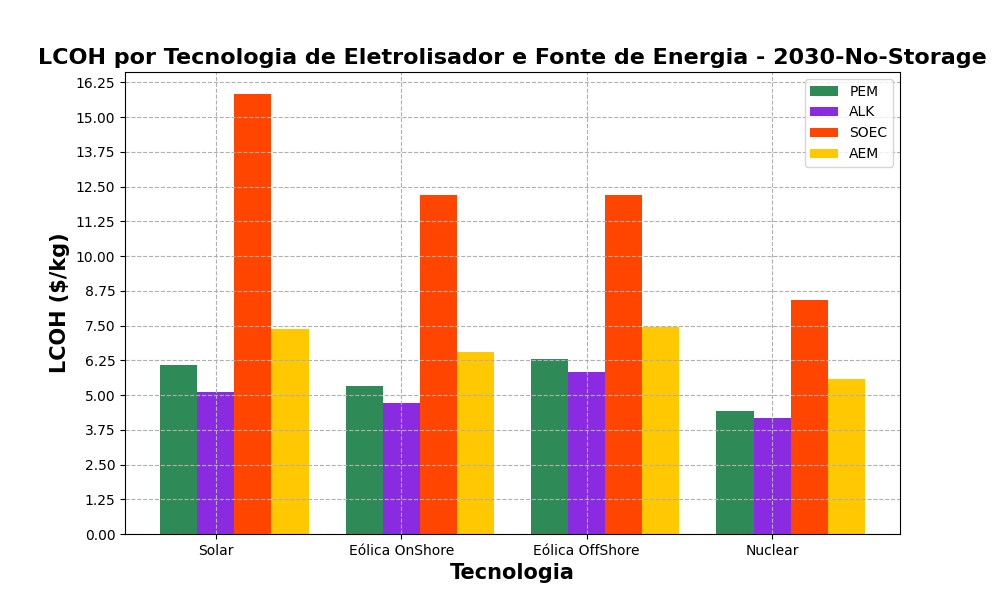
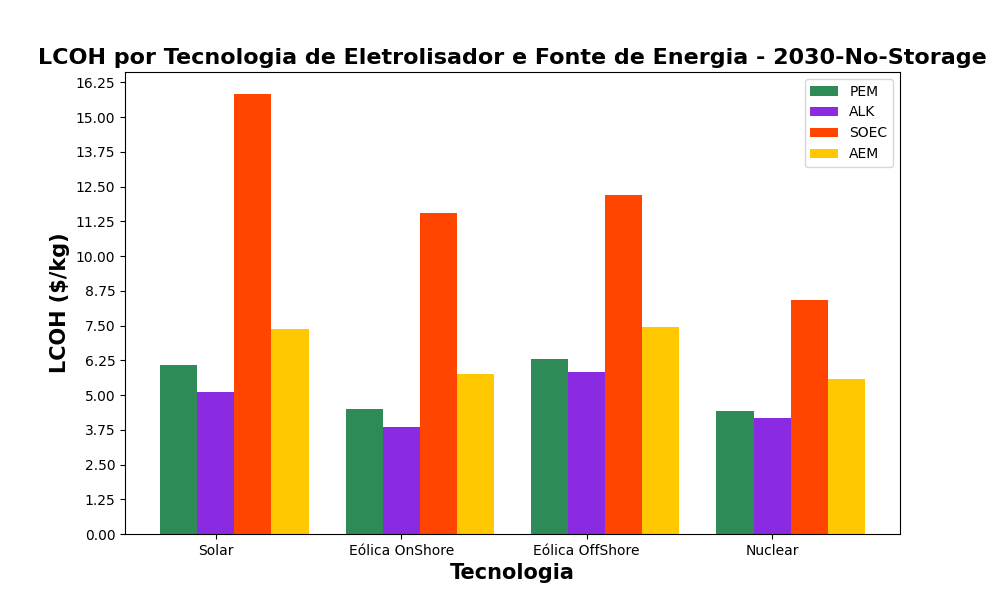
Variables representing conservative present scenario have been inserted. However, it still need to consider capacity factor for renewable sourcers. The selected capacity factors were only choosen to analyze the code behavior

Changed region(s): [[0.341, 0.63, 0.434, 0.72], [0.434, 0.57, 0.496, 0.63], [0.403, 0.3, 0.465, 0.36]]

diff --git a/Lcoh_main.py b/Lcoh_main.py
@@ -11,35 +11,35 @@ def parameters_present_conservative():
     year_storage = 'Present-Storage'
     year_no_storage = 'Present-No-Storage'
 
-    capex_battery = 73500
-    opex_battery = 500/73500
+    capex_battery = 6000*0.2
+    opex_battery = 80/6000
 
     ########### Energia ################
     ### custos energias
     # Solar
-    capex_sol = 320*0.2 # USD/kW
-    opex_sol = 0.02 # %
-    cf_sol = 0.25
+    capex_sol = 4250*0.2 # USD/kW - EPE 2021
+    opex_sol = 55/4250 # % - EPE 2021
+    cf_sol = 0.20 # Atualizar
 
     # Wind Onshore
-    capex_WindOnshore = 450*0.2 # USD/kW - EPE
-    opex_WindOnshore = 90/capex_WindOnshore # %/ano 0.2
-    cf_WindOnshore = 0.4
+    capex_WindOnshore = 4750*0.2 # USD/kW - - EPE 2021
+    opex_WindOnshore = 70/4750 # %/ano - EPE 2021
+    cf_WindOnshore = 0.34 # Atualizar
     
     # wind offshore
-    capex_WindOffshore = 1225*0.2 # USD/kW - EPE
-    opex_WindOffshore = 0.04 # %
-    cf_WindOffshore = 0.47
+    capex_WindOffshore = 15700.5*0.2 # USD/kW - EPE
+    opex_WindOffshore = 375/15700 # % - EPE 2021
+    cf_WindOffshore = 0.4  ## Atualizar 
     
     # Nuclear
-    capex_nuclear = 0*0.2
-    opex_nuclear = 0.013
+    capex_nuclear = 50000*0.2 # - EPE 2021
+    opex_nuclear = 0.02 # Aproximado - EPE 2021
     cf_nuclear = 1 
 
     ######### Eletrolisador ############
     ### Custos e parametros
     # PEM parametros
-    capex_pem = 1000 # USD/kW
+    capex_pem = 1300 # USD/kW - IEA 2020
     opex_pem = 0.02 # %
 
     pot_pem = 988.68 # kW
@@ -47,11 +47,11 @@ def parameters_present_conservative():
     FlowRate_pem = 200 # Nm3/h
     ef_pem = 0
     pem_energy_prod1kg = 55*1.01 # kWh/kg
-    lifetime_pem = 80000 # h IEA
+    lifetime_pem = 50000 # h IRENA
     bar_pem = 30
 
     # Alkalino parametros
-    capex_alk = 650 # $/kW
+    capex_alk = 800 # $/kW - IEA 2020
     opex_alk = 0.02
     
     pot_alk = 1000 # kW
@@ -63,7 +63,7 @@ def parameters_present_conservative():
     bar_alk = 30
 
     # Parametros SOEC
-    capex_soec = 1800 # $/kW
+    capex_soec = 4000 # $/kW - IEA 2020
     opex_soec = 0.02 # %
 
     pot_soec = 1100 # kW
@@ -71,11 +71,11 @@ def parameters_present_conservative():
     FlowRate_soec = h2_soec/0.08988
     soec_energy_prod1kg = 39.4 + 39.4*0.1 # kWh/kg
     ef_soec = 0
-    lifetime_soec = 50000 # h IEA
+    lifetime_soec = 30000 # h IEA
     bar_soec = 1
 
     # Parametros AEM
-    capex_aem = (469.13+258.02) # $/kW
+    capex_aem = (469.13+258.02) # $/kW - Atual
     nao_utilizado_opex = 1
 
     pot_aem = 1000 # kW
@@ -119,7 +119,7 @@ def parameters_2030_conservative():
 
     # Wind Onshore
     capex_WindOnshore = 4500*0.2 # USD/kW - EPE
-    opex_WindOnshore = 90/capex_WindOnshore # %/ano 0.2
+    opex_WindOnshore = 90/4500 # %/ano 0.2
     cf_WindOnshore = 0.4
     
     # wind offshore
@@ -215,7 +215,7 @@ def parameters_2050_conservative():
 
     # Wind Onshore
     capex_WindOnshore = 45000*0.2 # USD/kW - EPE
-    opex_WindOnshore = 90/capex_WindOnshore # %/ano 0.2
+    opex_WindOnshore = 90/45000 # %/ano 0.2
     cf_WindOnshore = 0.4
     
     # wind offshore
@@ -425,9 +425,6 @@ def calculate_with_storage(t, wacc, capex_sol, opex_sol, cf_sol, capex_WindOnsho
           lcoh_soec_pv, lcoh_soec_WindOnshore, lcoh_soec_WindOffshore, lcoh_soec_nuclear,
           lcoh_aem_pv, lcoh_aem_WindOnshore, lcoh_aem_WindOffshore, lcoh_aem_nuclear, year_storage)
     
-    write_excel()
-
-
 def calculate_no_storage(t, wacc, capex_sol, opex_sol, cf_sol, capex_WindOnshore, opex_WindOnshore, cf_WindOnshore,
             capex_WindOffshore, opex_WindOffshore, cf_WindOffshore, capex_nuclear, opex_nuclear, cf_nuclear,
             capex_pem, opex_pem, pot_pem, h2_pem, FlowRate_pem, ef_pem, pem_energy_prod1kg, lifetime_pem, bar_pem,
@@ -568,6 +565,7 @@ def main():
     parameters_present_conservative()
     parameters_2030_conservative()
     parameters_2050_conservative()
+    write_excel()
 
 if __name__ == '__main__':
     main()

diff --git a/functions.py b/functions.py
@@ -49,7 +49,7 @@ def plot_graph(lcoh_pem_pv, lcoh_pem_WindOnshore ,lcoh_pem_WindOffshore, lcoh_pe
 
     plt.title(f'LCOH por Tecnologia de Eletrolisador e Fonte de Energia - {year}', fontsize=16, fontweight='bold')
 
-    ax.grid(True, linestyle='--')
+    # ax.grid(True, linestyle='--')
     
     ax.set_yticks(np.arange(0, max(max(custo_pem), max(custo_alk), max(custo_soec), max(custo_aem)) + 1.25, 1.25))
 
@@ -108,7 +108,7 @@ def write_txt(lcoh_pem_pv, lcoh_pem_WindOnshore, lcoh_pem_WindOffshore, lcoh_pem
                     arquivo.write('\n')
 
     except Exception as e:
-        print('Error: ' + str(e))
+        print('Errorouuuuuuu: ' + str(e))
 
 def write_to_sheet(year, writer):
     file_path = (f'lcoh-txt/LCOH-{year}.txt')
